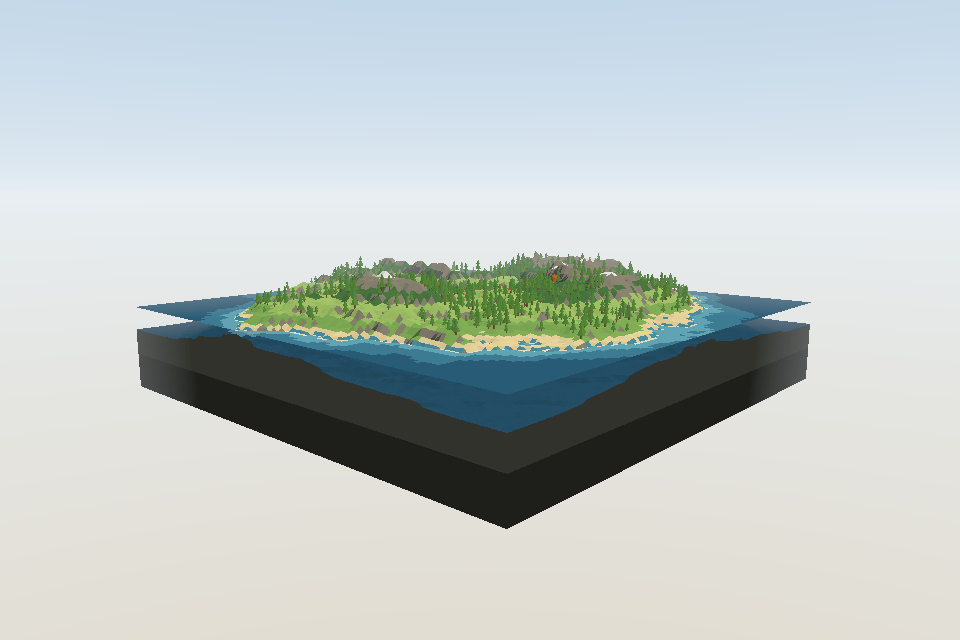
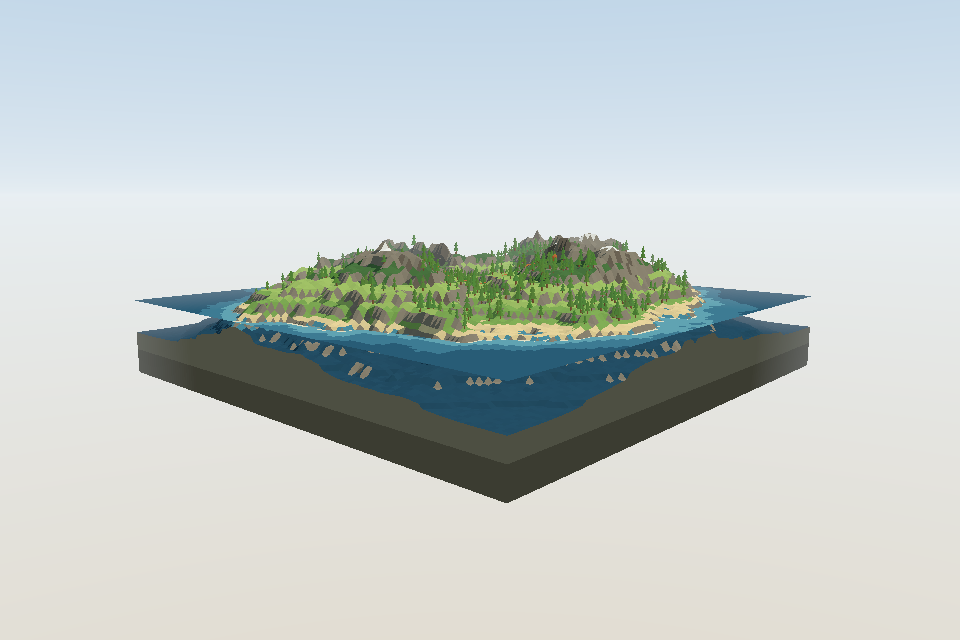
feat: 地形拾取支持背面与相切命中，新增离线预览出图
- picking: 起点在地下时不再直接判空，改为双向穿面检测（修复地图边缘山体点不中）
- picking: 射线与地表相切时用三分搜索收敛最近点，支持点中山脊轮廓线
- 新增 scripts/preview：纯 JS 软件光栅器与 CDP 无头截图，npm run preview:soft / preview:shot
- 更新 terrain/world 自检脚本与 4 张预览图
- README 补充离线预览渲染说明

Changed region(s): [[0.125, 0.3438, 0.8438, 0.8438]]

diff --git a/src/three/picking.js b/src/three/picking.js
@@ -60,25 +60,62 @@ export function raycastField(field, ray, options = {}) {
 
   let tPrev = tMin
   let gPrev = gap(tPrev)
-  // 相机在地形内部或地下（理论上不会发生，但别让它把画面点得到处是标记）
-  if (gPrev <= 0) return null
+  if (gPrev === 0) return hitAt(field, o, d, tMin)
+
+  // 记录整条射线上最接近地表的一点，供"相切"兜底使用
+  let closestT = tMin
+  let closestGap = Math.abs(gPrev)
 
   for (let t = tMin + step; t <= tMax; t += step) {
     const g = gap(t)
-    if (g <= 0) {
-      // 找到符号翻转的区间，二分收敛到交点
+    const absGap = Math.abs(g)
+    if (absGap < closestGap) {
+      closestGap = absGap
+      closestT = t
+    }
+
+    // 找第一个"上下穿面"的位置，两个方向都要认。
+    //
+    // 从上方穿到下方是正常的落点。从下方穿到上方则发生在射线从地图侧面切进山体时：
+    // 地表只存在于地图范围内，所以射线一进入范围就可能已经在地表之下（起点在"山体内部"），
+    // 这时往前穿出的那一点，才是使用者实际看到并点中的那个表面。
+    // 早先这里直接判定"起点在地下就返回 null"，表现就是地图边缘的山点不中。
+    if ((gPrev > 0 && g <= 0) || (gPrev < 0 && g >= 0)) {
+      const above = gPrev > 0
       let lo = tPrev
       let hi = t
       for (let k = 0; k < precision; k++) {
         const mid = (lo + hi) * 0.5
-        if (gap(mid) > 0) lo = mid
+        const gm = gap(mid)
+        if (above ? gm > 0 : gm < 0) lo = mid
         else hi = mid
       }
-      const tHit = (lo + hi) * 0.5
-      return hitAt(field, o, d, tHit)
+      return hitAt(field, o, d, (lo + hi) * 0.5)
     }
+
     tPrev = t
     gPrev = g
+  }
+
+  /*
+   * 没有任何穿面，但有可能是射线正好与地表「相切」——擦着山脊过去，
+   * gap 触零后立刻回升，符号始终不变。这种情况数学上交点确实存在，
+   * 而且对应"点山脊边缘/轮廓线"这个真实操作，不该判空。
+   *
+   * 阈值取 heightScale 的 1%（远小于一个格子的起伏），所以悬空点击不会被误判成命中。
+   */
+  if (closestGap < field.heightScale * 0.01) {
+    // 切点处 gap 不变号，二分法用不上，改用三分搜索把 |gap| 的最小值收敛出来，
+    // 否则返回的只是最近的采样点，在脊线附近会有几个百分点的误差
+    let lo = Math.max(tMin, closestT - step)
+    let hi = Math.min(tMax, closestT + step)
+    for (let k = 0; k < 40; k++) {
+      const m1 = lo + (hi - lo) / 3
+      const m2 = hi - (hi - lo) / 3
+      if (Math.abs(gap(m1)) < Math.abs(gap(m2))) hi = m2
+      else lo = m1
+    }
+    return hitAt(field, o, d, (lo + hi) * 0.5)
   }
 
   return null

diff --git a/src/three/cartoonTerrain.js b/src/three/cartoonTerrain.js
@@ -1,7 +1,7 @@
 import * as THREE from 'three'
 import { OrbitControls } from 'three/examples/jsm/controls/OrbitControls.js'
 import { createHeightField, DEFAULT_TERRAIN_OPTIONS } from './heightField.js'
-import { buildTerrainGeometry, createToonGradientMap } from './terrainMesh.js'
+import { buildTerrainGeometry, createToonGradientMap, SKIRT_DEPTH_FACTOR } from './terrainMesh.js'
 import { raycastField } from './picking.js'
 import { buildRoutePoints, buildRouteRibbon, createDashTexture } from './route.js'
 import { createForest, createRocks, createSkyDome, createWater } from './scenery.js'
@@ -61,7 +61,7 @@ export function frameTerrainCamera(camera, { size, heightScale, aspect = 1, fill
   const corners = []
   for (const x of [-half, half]) {
     for (const z of [-half, half]) {
-      for (const y of [-heightScale * 0.85, heightScale]) corners.push(new THREE.Vector3(x, y, z))
+      for (const y of [-heightScale * SKIRT_DEPTH_FACTOR, heightScale]) corners.push(new THREE.Vector3(x, y, z))
     }
   }
 
@@ -210,7 +210,7 @@ export function createTerrainWorld({
     terrainGroup = new THREE.Group()
     root.add(terrainGroup)
 
-    const geometry = buildTerrainGeometry(field, { skirtDepth: field.heightScale * 0.85 })
+    const geometry = buildTerrainGeometry(field, { skirtDepth: field.heightScale * SKIRT_DEPTH_FACTOR })
     const material = new THREE.MeshToonMaterial({
       vertexColors: true,
       gradientMap: toonGradient,

diff --git a/src/three/terrainMesh.js b/src/three/terrainMesh.js
@@ -21,11 +21,17 @@ export const TERRAIN_PALETTE = {
   rock: '#918a7c',
   cliff: '#6f675c',
   snow: '#f4f6f7',
-  /** 沙盘侧壁与底面 */
-  wallTop: '#6f675c',
-  wallBottom: '#4a443c',
-  base: '#332e29',
+  /** 沙盘侧壁与底面。要够浅，否则底座会在画面里变成一大块黑，抢掉地形的视觉重量 */
+  wallTop: '#a89a86',
+  wallBottom: '#857867',
+  base: '#6b6053',
 }
+
+/**
+ * 底座厚度相对 heightScale 的比例。
+ * 抽成常量是因为离线预览渲染器必须用同一个值，否则预览里的沙盘厚度和真实场景不一致。
+ */
+export const SKIRT_DEPTH_FACTOR = 0.42
 
 /**
  * 高度 + 坡度 → 色带。

diff --git a/src/three/heightField.js b/src/three/heightField.js
@@ -29,8 +29,8 @@ export const DEFAULT_TERRAIN_OPTIONS = {
   /** 梯田化强度：让高度往最近的台阶靠拢，出卡通台地感 */
   terrace: 0.32,
   terraceSteps: 11,
-  /** 最高峰的世界高度 */
-  heightScale: 17,
+  /** 最高峰的世界高度。相对边长 120 约 20% 时立体感合适；太小会摊成一张绿饼 */
+  heightScale: 24,
   /** 归一化水位：低于它的地方被水覆盖 */
   waterLevel: 0.33,
   ridgeSeedOffset: 977,

diff --git a/README.md b/README.md
@@ -23,9 +23,21 @@ This template should help get you started developing with Vue 3 in Vite.
 | 命令 | 验证内容 |
 | --- | --- |
 | `npm run check:terrain` | 噪声确定性、高度场值域、三角剖分无缝、拾取精度、飘带贴地等 60+ 项 |
-| `npm run check:world` | 用假 DOM 真实构建场景图并派发交互事件，50+ 项；含初始取景的 NDC 实测 |
+| `npm run check:world` | 用假 DOM 真实构建场景图并派发交互事件，60+ 项；含取景的 NDC 实测 |
 | `npm run check:view` | 用 `@vue/compiler-sfc` 编译所有 `.vue`，并解析三维模块导入图 |
 | `npm run check` | 依次执行以上三个 |
+
+## 离线预览渲染
+
+三维画面好不好看只能靠眼睛，但"能不能自己看到"不该依赖运气。所以有两套出图方案：
+
+| 命令 | 说明 |
+| --- | --- |
+| `npm run preview:soft` | **纯 JS 软件光栅器**，零依赖、不需要浏览器/WebGL。复用真实的几何、配色、光照与相机参数，自己光栅化成 PNG（`scripts/preview/soft-shots/`）。用于检查构图、地形形态、配色分层 |
+| `npm run preview:shot` | 走 Chrome DevTools Protocol 驱动 Edge/Chrome 无头截图（`scripts/preview/shots/`），是像素级真实结果。只用 Node 内置的 `fetch` + `WebSocket`，不需要 puppeteer |
+
+> `preview:shot` 需要浏览器能正常初始化。在禁止命名管道的受限沙箱里 Chromium 起不来
+> （mojo IPC 依赖命名管道，进程会活着但永远初始化不完），此时用 `preview:soft`。
 
 ## Recommended IDE Setup
 
